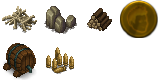
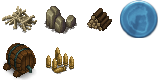
Swap token and ingoo hue

Changed region(s): [[0.75, 0.0, 1.0, 0.475]]

diff --git a/src/Modal.svelte b/src/Modal.svelte
@@ -552,8 +552,8 @@ h4 { margin: 0 0 10px; }
 	width: 20px;
 	vertical-align: middle;
 }
-	[data-free="false"] .ingoo { filter: hue-rotate(-30deg) saturate(50%); }
-	[data-trade] .ingoo { filter: hue-rotate(-10deg) saturate(50%); }
+	[data-free="false"] .ingoo { filter: hue-rotate(-30deg) saturate(20%); }
+	[data-trade] .ingoo { filter: hue-rotate(-10deg) saturate(20%); }
 
 .item button {
 	background: none;
